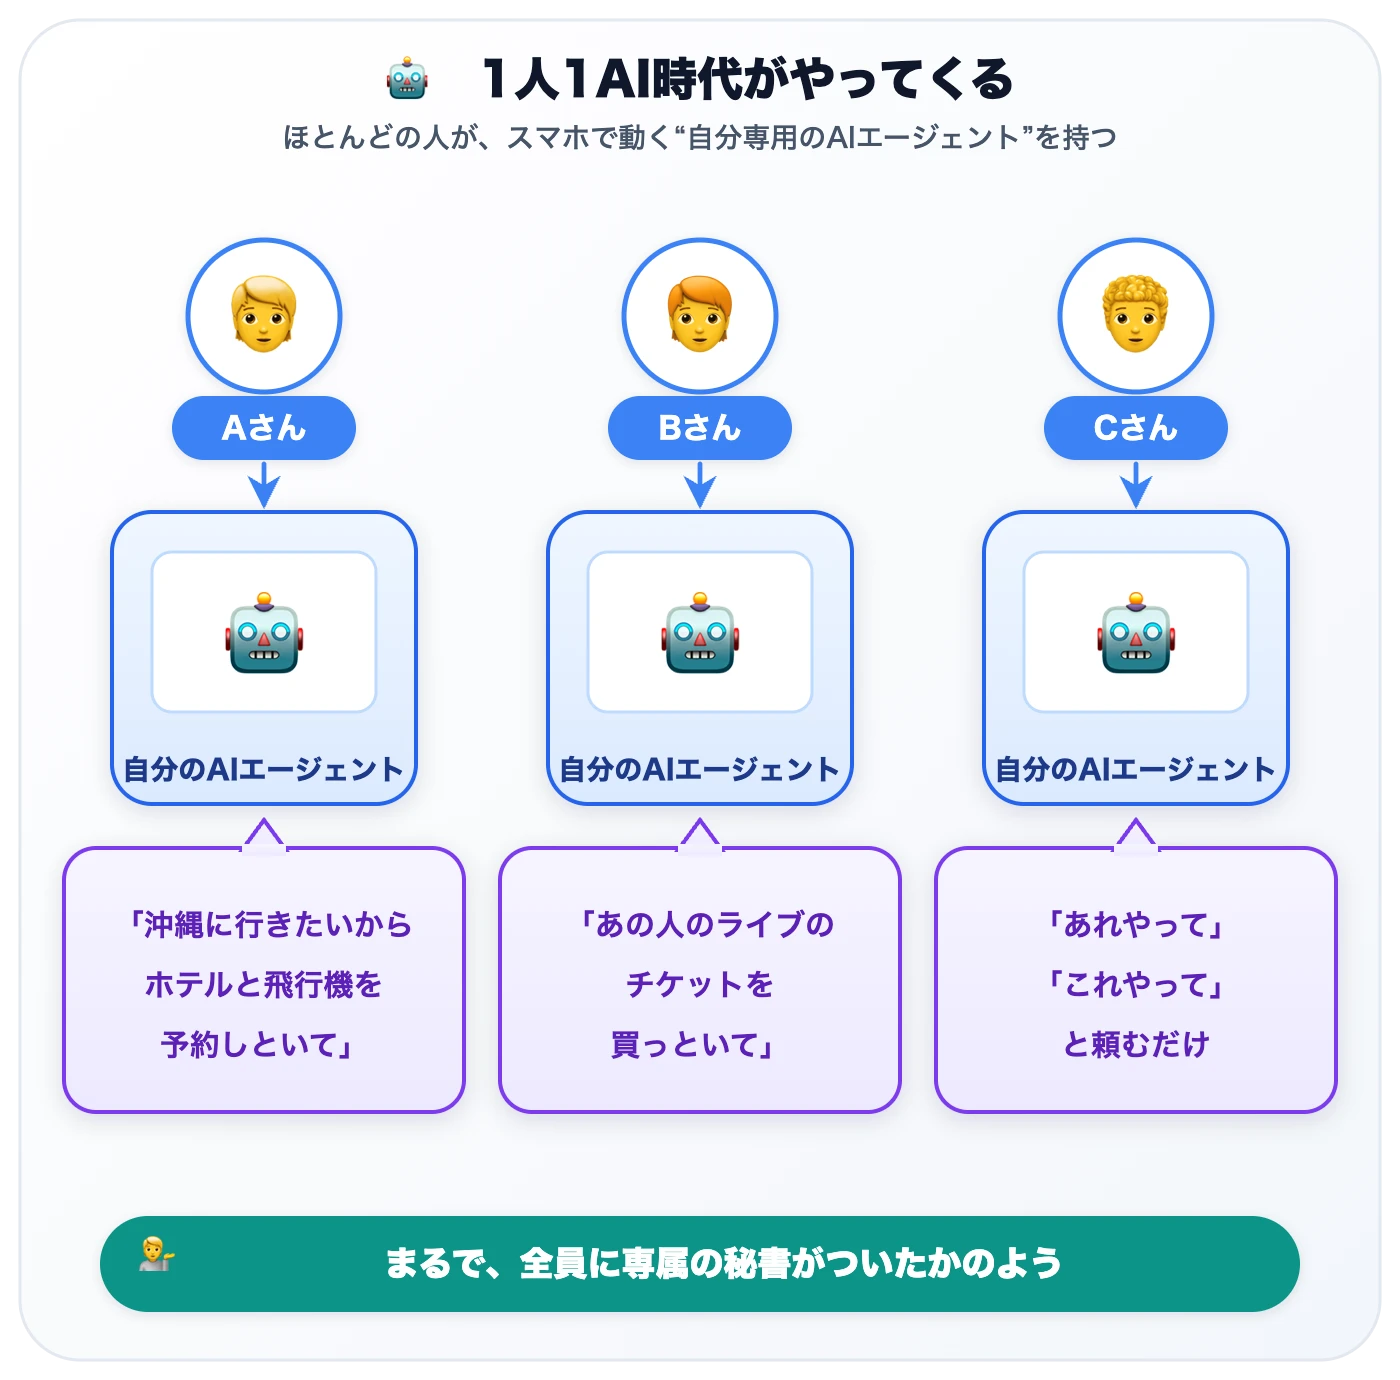
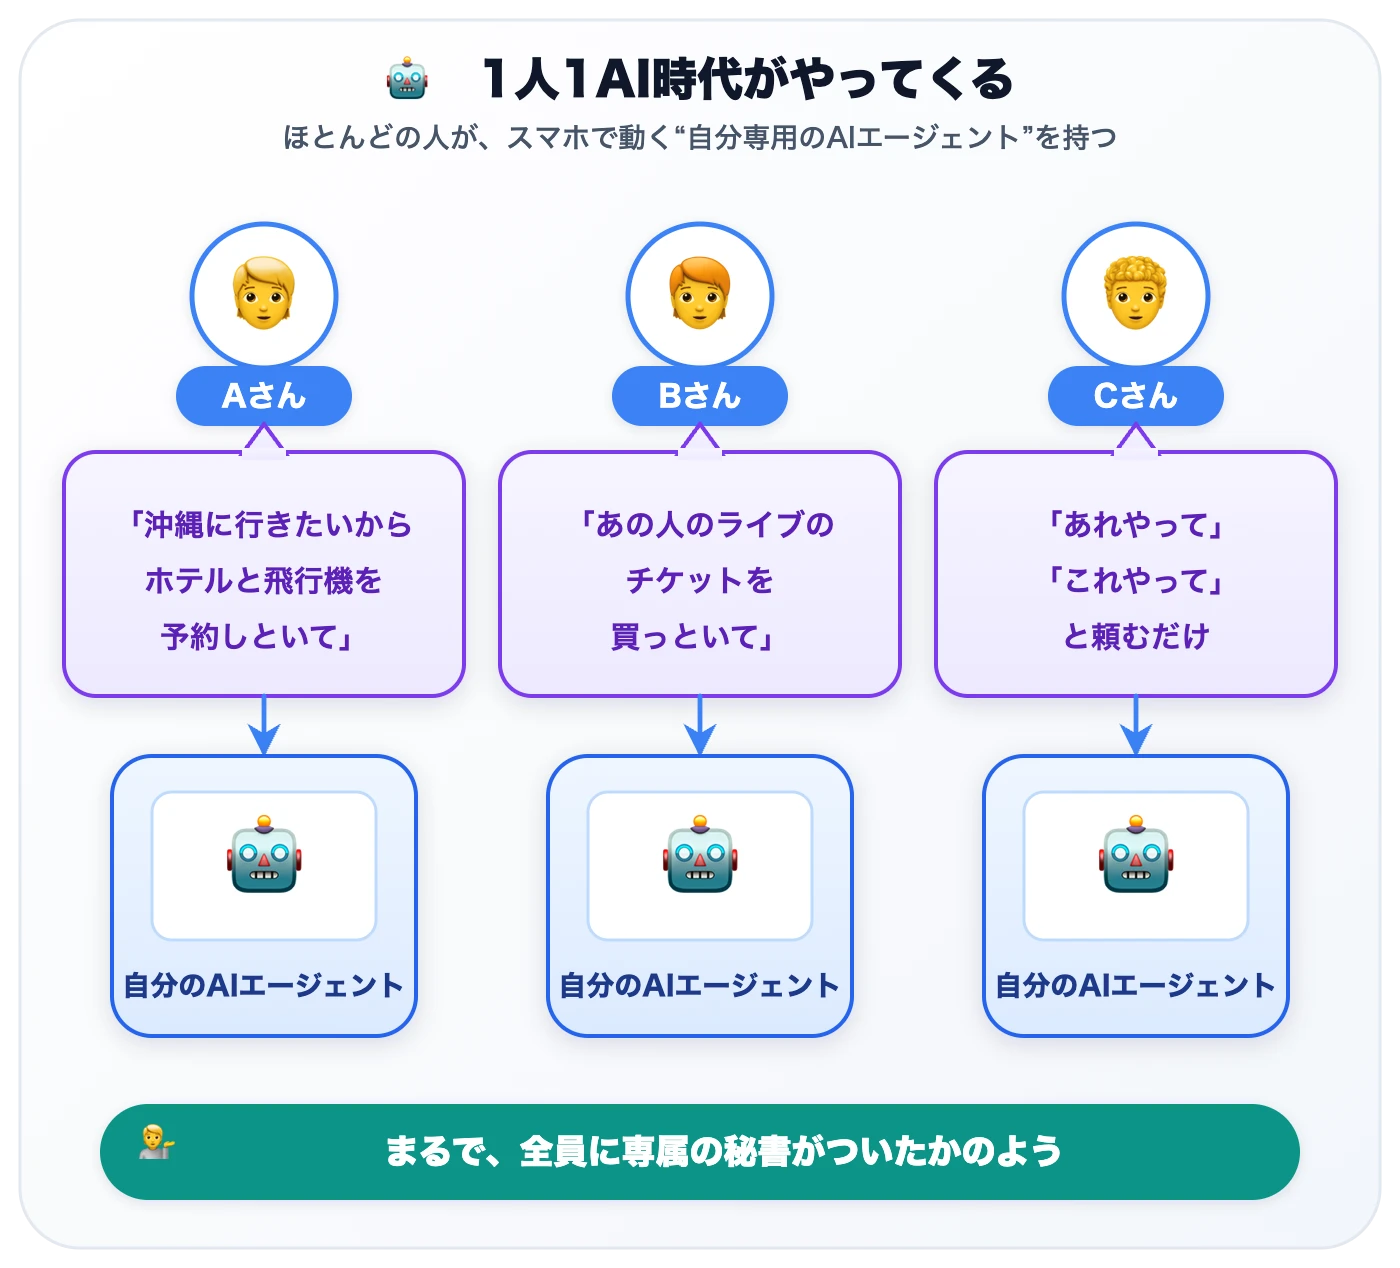
feat: add "services own the AI concierge" diagram and fix fig 1 speaker
Two diagram changes for the 1-person-1-AI article:

- Fig 1: move each request bubble above the person with the tail pointing
  up to them, and put the AI agent below as the delegate. Previously the
  bubble sat under the agent, making it look like the AI said "I want to
  go to Okinawa" when it is the person (Aさん) who speaks.
- Add a new diagram in the concierge section showing each service owning
  its own AI concierge (amber, service-side), mirroring fig 1's layout to
  contrast "individuals own an AI" vs "services own an AI".

Renumber the existing figures 02-05 to 03-06 (and their mmd/svg/webp)
and update the article references accordingly.

diff --git a/scripts/gen_diagrams.py b/scripts/gen_diagrams.py
@@ -151,7 +151,7 @@ W = 700
 
 # ───────────────────────── Diagram 1 ─────────────────────────
 def d1():
-    H = 690
+    H = 634
     s = svg_open(W, H) + page_bg(W, H)
     s += title_block(W, "🤖", "1人1AI時代がやってくる",
                      "ほとんどの人が、スマホで動く“自分専用のAIエージェント”を持つ",
@@ -163,31 +163,71 @@ def d1():
         (568, "🧑🦱", "Cさん", ["「あれやって」", "「これやって」", "と頼むだけ"]),
     ]
     for cx, ava, name, req in cols:
-        s += (f'<circle cx="{cx}" cy="158" r="38" fill="#FFFFFF" '
+        # person (the speaker) on top
+        s += (f'<circle cx="{cx}" cy="148" r="36" fill="#FFFFFF" '
               f'stroke="{PAL["blue"]["accent"]}" stroke-width="2.5" filter="url(#sh2)"/>')
-        s += emoji(cx, 172, ava, 40)
-        s += pill(cx, 214, 92, 32, name, PAL['blue']['accent'], "#FFFFFF", 15, 700)
-        s += arrow(cx, 232, cx, 252, 'blue', 2.4)
-        # phone with AI
-        s += card(cx-76, 256, 152, 146, 'blue', rx=20)
-        s += plain_card(cx-56, 276, 112, 80, fill="#FFFFFF", stroke="#BFDBFE", rx=10, sh=False)
-        s += emoji(cx, 334, "🤖", 44)
-        s += text(cx, 390, "自分のAIエージェント", 14, PAL['blue']['text'], 700)
-        # request bubble
-        by = 424
-        s += card(cx-100, by, 200, 132, 'violet', rx=16)
+        s += emoji(cx, 161, ava, 38)
+        s += pill(cx, 198, 88, 30, name, PAL['blue']['accent'], "#FFFFFF", 15, 700)
+        # speech bubble spoken BY the person (tail points up to them)
+        by = 226
+        s += card(cx-100, by, 200, 122, 'violet', rx=16)
         s += (f'<path d="M{cx-11},{by+1} L{cx+11},{by+1} L{cx},{by-14} z" '
               f'fill="url(#g-violet)" stroke="{PAL["violet"]["stroke"]}" stroke-width="2"/>')
         s += f'<rect x="{cx-11}" y="{by-2}" width="22" height="6" fill="url(#g-violet)"/>'
-        s += mtext(cx, by+44, req, 15, PAL['violet']['text'], 600, "middle", lh=30)
+        s += mtext(cx, by+42, req, 15, PAL['violet']['text'], 600, "middle", lh=28)
+        # delegates down to the AI agent
+        s += arrow(cx, by+122, cx, by+150, 'blue', 2.4)
+        # AI agent on the phone (the one who carries out the task)
+        py = 378
+        s += card(cx-76, py, 152, 140, 'blue', rx=20)
+        s += plain_card(cx-56, py+18, 112, 74, fill="#FFFFFF", stroke="#BFDBFE", rx=10, sh=False)
+        s += emoji(cx, py+66, "🤖", 42)
+        s += text(cx, py+120, "自分のAIエージェント", 14, PAL['blue']['text'], 700)
 
-    s += pill(W/2, 632, 600, 48, "まるで、全員に専属の秘書がついたかのよう",
+    s += pill(W/2, 576, 600, 48, "まるで、全員に専属の秘書がついたかのよう",
               PAL['teal']['stroke'], "#FFFFFF", 17, 800, emoji_ch="💁")
     save("01-one-ai-per-person.svg", s)
 
 
 # ───────────────────────── Diagram 2 ─────────────────────────
 def d2():
+    H = 612
+    s = svg_open(W, H) + page_bg(W, H)
+    s += title_block(W, "🛎️", "今の「AI対応」は“サービス側のAI”",
+                     "各サービスが、自社の案内役として AI コンシェルジュを持つ",
+                     y=48, tsize=23, ssize=14)
+
+    cols = [
+        (132, "🏨", ["ホテル予約", "サービス"], ["「どんなお部屋を", "ご希望ですか？」"]),
+        (350, "✈️", ["航空券", "サービス"],   ["「行き先はどちら", "ですか？」"]),
+        (568, "🛒", ["EC サイト"],            ["「何をお探し", "ですか？」"]),
+    ]
+    for cx, icon, sname, ask in cols:
+        # the service (owner) on top
+        s += card(cx-76, 118, 152, 92, 'amber', rx=18)
+        s += emoji(cx, 158, icon, 38)
+        s += mtext(cx, 190, sname, 14.5, PAL['amber']['text'], 700, "middle", lh=18)
+        s += arrow(cx, 212, cx, 240, 'amber', 2.4)
+        # the AI concierge belongs to the service (mirrors the phone in fig 1)
+        s += card(cx-80, 244, 160, 120, 'amber', rx=20)
+        s += plain_card(cx-58, 262, 116, 60, fill="#FFFFFF", stroke="#FCD9A5", rx=10, sh=False)
+        s += emoji(cx, 308, "🛎️", 38)
+        s += text(cx, 350, "AIコンシェルジュ", 14, PAL['amber']['text'], 700)
+        # the concierge asks a generic question (tail points up to the concierge)
+        by = 386
+        s += card(cx-100, by, 200, 92, 'slate', rx=16)
+        s += (f'<path d="M{cx-11},{by+1} L{cx+11},{by+1} L{cx},{by-14} z" '
+              f'fill="url(#g-slate)" stroke="{PAL["slate"]["stroke"]}" stroke-width="2"/>')
+        s += f'<rect x="{cx-11}" y="{by-2}" width="22" height="6" fill="url(#g-slate)"/>'
+        s += mtext(cx, by+40, ask, 14.5, PAL['slate']['text'], 600, "middle", lh=26)
+
+    s += pill(W/2, 544, 626, 50, "AIは“サービス側”にいて、あなた個人のことは知らない",
+              PAL['amber']['stroke'], "#FFFFFF", 16, 800, emoji_ch="🛎️")
+    save("02-services-have-concierge.svg", s)
+
+
+# ───────────────────────── Diagram 3 ─────────────────────────
+def d3():
     H = 1086
     s = svg_open(W, H) + page_bg(W, H)
     s += title_block(W, "🆚", "「コンシェルジュ」と「専属秘書」は何が違うのか",
@@ -237,11 +277,11 @@ def d2():
 
     s += text(W/2, 1058, "同じ依頼でも、“知っているコンテキスト”の差で応対の質はこれだけ変わる",
               15, TXT2, 600)
-    save("02-concierge-vs-secretary.svg", s)
+    save("03-concierge-vs-secretary.svg", s)
 
 
-# ───────────────────────── Diagram 3 ─────────────────────────
-def d3():
+# ───────────────────────── Diagram 4 ─────────────────────────
+def d4():
     H = 548
     s = svg_open(W, H) + page_bg(W, H)
     s += title_block(W, "🚪", "人間は、あなたのサービスに“来なくなる”",
@@ -277,11 +317,11 @@ def d3():
     s += (f'<path d="M90,{y2+50} C90,476 610,476 610,{y2+50}" fill="none" '
           f'stroke="{PAL["rose"]["accent"]}" stroke-width="2.2" stroke-dasharray="3 7" stroke-linecap="round"/>')
     s += pill(350, 480, 252, 38, "人間はもう直接は来ない", PAL['rose']['stroke'], "#FFFFFF", 15, 700, emoji_ch="🚫")
-    save("03-human-does-not-visit.svg", s)
+    save("04-human-does-not-visit.svg", s)
 
 
-# ───────────────────────── Diagram 4 ─────────────────────────
-def d4():
+# ───────────────────────── Diagram 5 ─────────────────────────
+def d5():
     H = 760
     s = svg_open(W, H) + page_bg(W, H)
     s += title_block(W, "🔌", "エージェント時代に、サービスが用意すべきもの",
@@ -333,11 +373,11 @@ def d4():
             s += text(ix+62, py+54, sub, 13.5, MUTED, 600, "start")
         else:
             s += text(ix+62, py + row_h/2 + 7, label, 18, PAL[pal]['text'], 700, "start")
-    save("04-service-needs-api.svg", s)
+    save("05-service-needs-api.svg", s)
 
 
-# ───────────────────────── Diagram 5 ─────────────────────────
-def d5():
+# ───────────────────────── Diagram 6 ─────────────────────────
+def d6():
     H = 520
     s = svg_open(W, H) + page_bg(W, H)
     s += title_block(W, "✨", "UX から AX へ",
@@ -371,8 +411,8 @@ def d5():
               lines=["人間は自分の", "AIエージェントに依頼"], icon_size=23, icon_off=27, txoff=50)
     s += plain_card(R+22, cy+250, cw-44, 72, fill="#ECFEFF", stroke=PAL['teal']['stroke'], rx=14, sw=1.8)
     s += mtext(R+cw/2, cy+280, ["✨ AX（AIエージェント体験）", "が競争力"], 14, PAL['teal']['text'], 800, "middle", lh=24)
-    save("05-ux-to-ax.svg", s)
+    save("06-ux-to-ax.svg", s)
 
 
-d1(); d2(); d3(); d4(); d5()
+d1(); d2(); d3(); d4(); d5(); d6()
 print("done")